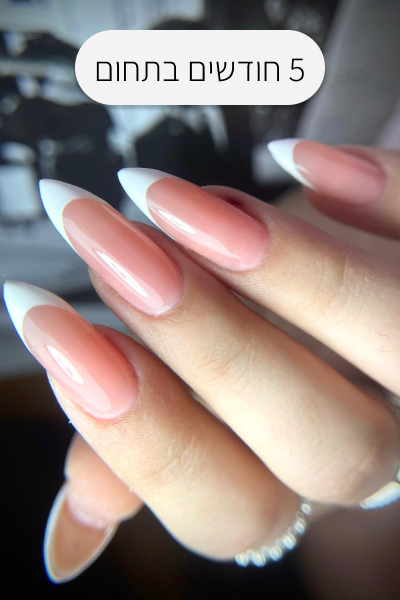
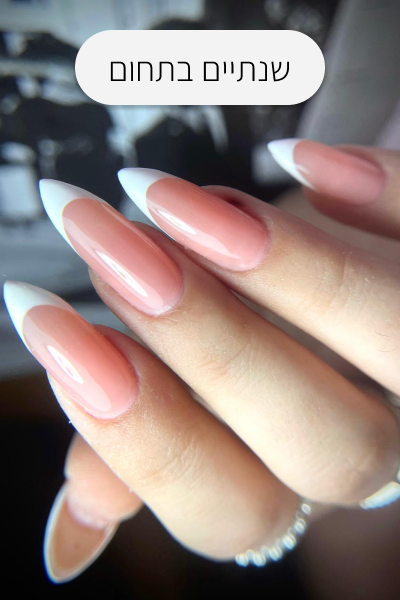
lastFixes

Changed region(s): [[0.24, 0.09, 0.78, 0.15]]

diff --git a/src/components/recommends/Students.js b/src/components/recommends/Students.js
@@ -14,11 +14,11 @@ import result12 from "../../images/גרטה מור תלמידות 12.png"
 import result13 from "../../images/גרטה מור תלמידות 13.png"
 import result14 from "../../images/גרטה מור תלמידות 14.png"
 import result15 from "../../images/גרטה מור תלמידות 15.png"
-import result16 from "../../images/גרטה מור תלמידות 16.png"
-import result17 from "../../images/גרטה מור תלמידות 17.png"
-import result18 from "../../images/גרטה מור תלמידות 18.png"
-import result19 from "../../images/גרטה מור תלמידות 19.png"
-import result20 from "../../images/גרטה מור תלמידות 20.png"
+import result16 from "../../images/גרטה מור תלמידות 21.png"
+import result17 from "../../images/גרטה מור תלמידות 22.png"
+import result18 from "../../images/גרטה מור תלמידות 23.png"
+import result19 from "../../images/גרטה מור תלמידות 24.png"
+
 
 
 
@@ -76,10 +76,7 @@ const Recommends=()=>{
           type: 'image',
           src: result19,
         },
-        {
-          type: 'image',
-          src: result20,
-        },
+      
         {
           type: 'image',
           src: result6,
@@ -120,7 +117,22 @@ const Recommends=()=>{
           type: 'image',
           src: result15,
         },
-   
+        {
+          type: 'image',
+          src: result16,
+        },
+        {
+          type: 'image',
+          src: result17,
+        },
+        {
+          type: 'image',
+          src: result18,
+        },
+        {
+          type: 'image',
+          src: result19,
+        },
         ];  
 return <>
 <div className={styles.title} id="תוצאות">קצת מהבנות שעברו דרכי</div>
